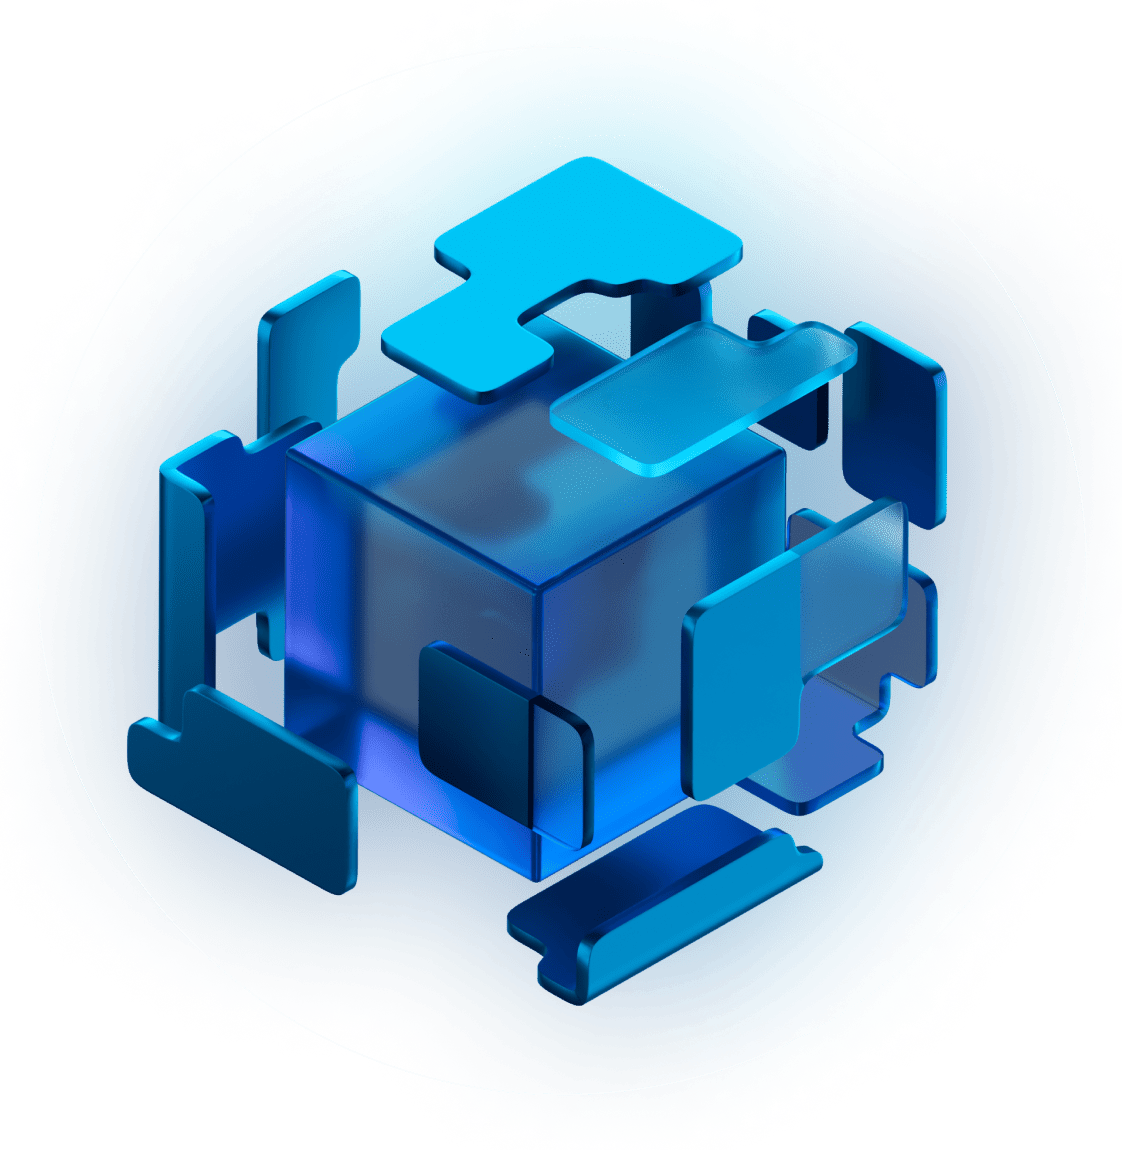
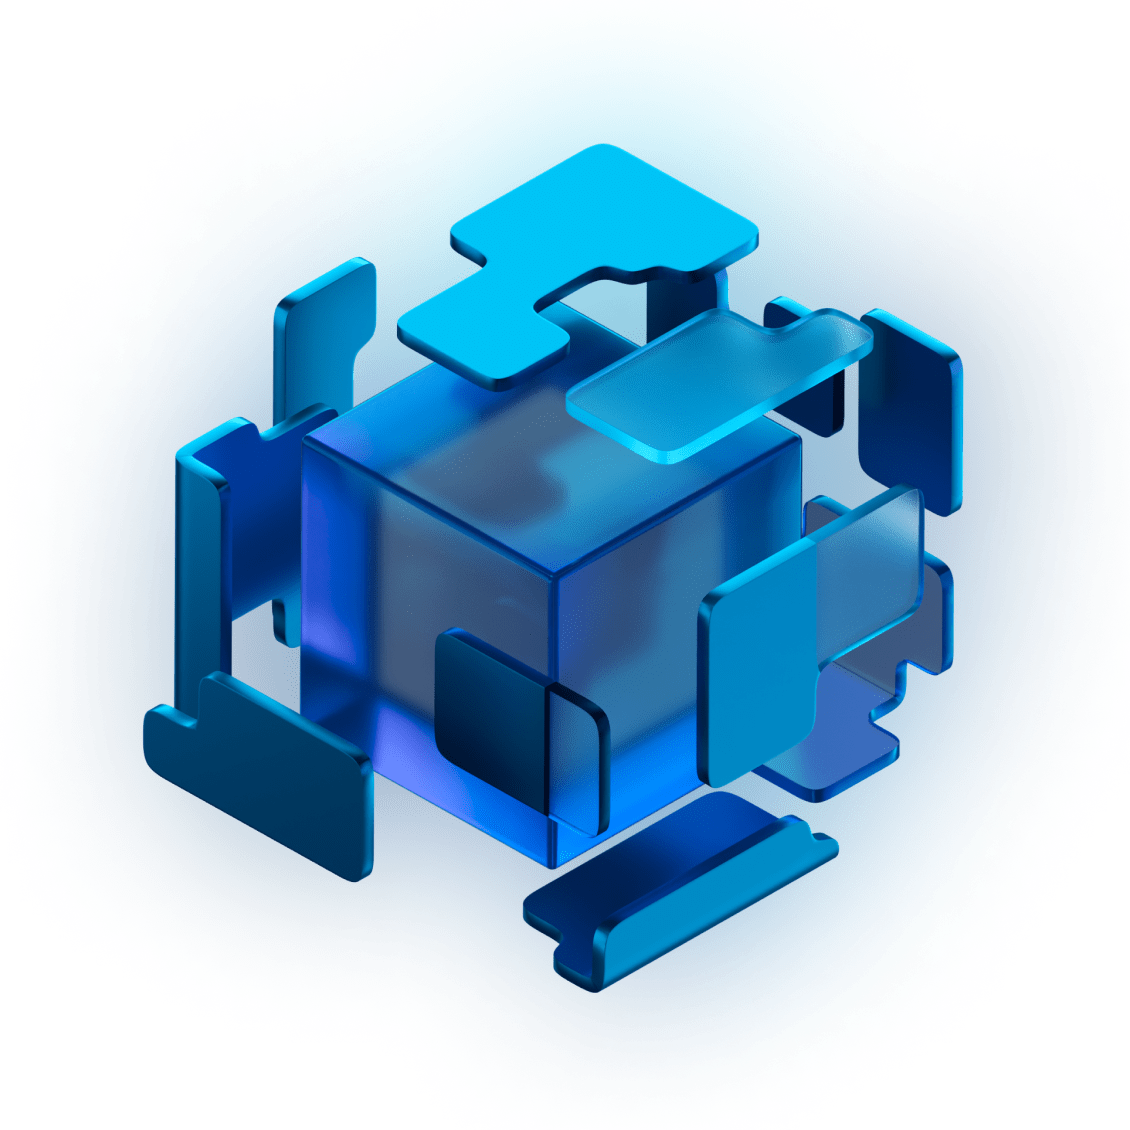
main page animations

diff --git a/app/ui/main/problems.tsx b/app/ui/main/problems.tsx
@@ -20,7 +20,7 @@ export default function Problems() {
       <div
         className={`px-fluid mobile-container-card ${s.inner}`}
       >
-        <div className="block justify-between md:flex" data-aos="fade-up">
+        <div className="block justify-between md:flex">
           <div>
             <Title
               title="Решаем ключевые проблемы"
@@ -53,11 +53,19 @@ export default function Problems() {
           </Link>
         </div>
 
-        <div
+        <div 
           className={`relative ${s.cardsWrapper}`}
         >
+           <Image
+            className={`hidden absolute left-1/2 md:block ${s.bg} ${s.elipse}`}
+            src={"problems_elipce.svg"}
+            alt="sphere"
+            width={1122}
+            height={1150}
+            unoptimized={false}
+          ></Image>
           <Image
-            className={`hidden absolute left-1/2 -translate-x-1/2 md:block ${s.bg}`}
+            className={`hidden absolute left-1/2 md:block ${s.bg} ${s.cube}`}
             src={"/problems-bg.png"}
             alt="sphere"
             width={1122}
@@ -65,7 +73,7 @@ export default function Problems() {
             unoptimized={true}
           ></Image>
           <div className={`block justify-between md:flex ${s.top}`}>
-            <div data-aos="fade-up">
+            <div>
               <ProblemCard
                 textWidth={298}
                 className={styles["problem-left"]}
@@ -76,7 +84,7 @@ export default function Problems() {
                 order="I"
               />
             </div>
-            <div data-aos="fade-up" data-aos-delay="200">
+            <div>
               <ProblemCard
                 textWidth={306}
                 className={styles["problem-right"]}
@@ -89,7 +97,7 @@ export default function Problems() {
           </div>
 
           <div className={`block md:flex ${s.center}`}>
-            <div className="mx-auto" data-aos="fade-up">
+            <div className="mx-auto">
               <ProblemCard
                 textWidth={337}
                 className={styles["problem-center"]}
@@ -101,7 +109,7 @@ export default function Problems() {
             </div>
           </div>
           <div className="hidden justify-between md:flex">
-            <div data-aos="fade-up" data-aos-delay="200">
+            <div>
               <ProblemCard
                 textWidth={335}
                 className={styles["problem-left"]}
@@ -122,7 +130,7 @@ export default function Problems() {
               />
             </div>
           </div>
-          <div
+          <div  data-aos="fade-up"
             className={`relative z-10 ${s.btn}`}
           >
             <Button

diff --git a/app/ui/main/numbers.tsx b/app/ui/main/numbers.tsx
@@ -40,7 +40,7 @@ export default function Numbers() {
             />
           </div>
           <div className={styles.projectsNumberBlock}>
-            <div
+            <div data-aos="fade-up"
               className={styles.projectsNumber}
               style={{
                 marginTop: "calc(15 * (1px + (100vw - 1530px) / 1530))",
@@ -48,7 +48,7 @@ export default function Numbers() {
             >
               {inView ? <CountUp duration={3} end={50}></CountUp> : "50"}+
             </div>
-            <div className={`inline-block text-fluid ${styles.period}`}>
+            <div data-aos="fade-up" className={`inline-block text-fluid ${styles.period}`}>
               Успешных проектов
             </div>
           </div>
@@ -80,7 +80,7 @@ export default function Numbers() {
                 paddingLeft: "calc(48 * (1px + (100vw - 1530px) / 1530))",
               }}
             >
-              <div
+              <div data-aos="fade-up"
                 className="font-semibold"
                 style={{
                   fontSize: "calc(128 * (1px + (100vw - 1530px) / 1530))",
@@ -90,7 +90,7 @@ export default function Numbers() {
               >
                 {inView ? <CountUp duration={3} end={5}></CountUp> : "5"}+
               </div>
-              <div className={`inline-block text-fluid ${styles.period}`}>
+              <div data-aos="fade-up" className={`inline-block text-fluid ${styles.period}`}>
                 Лет опыта
               </div>
             </div>
@@ -100,7 +100,7 @@ export default function Numbers() {
                 marginTop: "calc(30 * (1px + (100vw - 1530px) / 1530))",
               }}
             >
-              <div
+              <div data-aos="fade-up"
                 className="font-semibold"
                 style={{
                   fontSize: "calc(128 * (1px + (100vw - 1530px) / 1530))",
@@ -110,12 +110,12 @@ export default function Numbers() {
               >
                 {inView ? <CountUp duration={3} end={300}></CountUp> : "300"}+
               </div>
-              <div className={`inline-block text-fluid ${styles.period}`}>
+              <div data-aos="fade-up" className={`inline-block text-fluid ${styles.period}`}>
                 Обученных сотрудников
               </div>
             </div>
             <div className={`absolute ${styles.vint}`}>
-              <Image
+              <Image data-aos="fade-up" data-aos-delay="100"
                 src={"/vint.png"}
                 alt="vint"
                 width={511}

diff --git a/app/ui/common/css/ProblemsBlock.module.css b/app/ui/common/css/ProblemsBlock.module.css
@@ -25,6 +25,7 @@
     top: calc(-180 * (1px + (100vw - 1530px) / 1530));
     width: calc(1130 * (1px + (100vw - 1530px) / 1530));
     height: calc(1130 * (1px + (100vw - 1530px) / 1530));
+    left: 10%;
 }
 .btn {
     margin-top: calc(79 * (1px + (100vw - 1530px) / 1530));
@@ -37,6 +38,39 @@
     padding-top: calc(108 * (1px + (100vw - 1530px) / 1530));
     padding-bottom: calc(108 * (1px + (100vw - 1530px) / 1530));
 }
+.elipse {
+    animation: ellipse_anim 3.5s infinite ease-in-out;
+}
+
+@keyframes ellipse_anim {
+    0% {
+        transform: scale(1);
+    }
+    50% {
+        transform: scale(1.03);
+    }
+    100% {
+        transform: scale(1);
+    }
+}
+
+.cube {
+    animation: cube_anim 7s infinite ease-in-out;
+}
+
+@keyframes cube_anim {
+    0% {
+        transform: translateY(0.6%);
+    }
+    50% {
+        transform: translateY(-0.6%);
+    }
+    100% {
+        transform: translateY(0.6%);
+    }
+}
+
+
 @media (max-width: 767px) {
     .btn {
         margin-top: calc(36 * (1px + (100vw - 430px) / 430));
@@ -62,6 +96,7 @@
         top: 29%;
         width: 100%;
         height: auto;
+        left: 50%;
     }
     .cardsWrapper {
         margin-top: calc(200 * (1px + (100vw - 430px) / 430));

diff --git a/app/ui/common/title.tsx b/app/ui/common/title.tsx
@@ -27,14 +27,15 @@ export default function Title({
         alt="logo"
         width={0}
         height={0}
-        className={styles.icon}
+        className={`${styles.icon} ${iconLeft ? "" : styles.iconRight}`}
       />
     );
   }
 
   return (
     <div className={styles.wrapper}>
-      <div
+      <div 
+        data-aos={`${!isMain ? "fade-up" : ""}`}
         className={`subtitle text-fluid font-semibold ${styles.subtitle}`}
       >
         {iconLeft && image}
@@ -51,9 +52,9 @@ export default function Title({
           {title} <span className="inline opacity-50 md:block">{title2}</span>
         </h1>
       ) : (
-        <h3 className={`title leading-title font-bold text-title ${styles.title} ${isService ? styles.serviceTitle : ""}`}>
+        <h2 data-aos="fade-up" data-aos-delay="100" className={`title leading-title font-bold text-title ${styles.title} ${isService ? styles.serviceTitle : ""}`}>
           {title} <span className="inline opacity-50 md:block">{title2}</span>
-        </h3>
+        </h2>
       )}
     </div>
   );

diff --git a/app/ui/common/mainText.tsx b/app/ui/common/mainText.tsx
@@ -11,7 +11,7 @@ export default function MainText({
   const spans = [];
   for (let i = 0; i < order; i++) {
     spans.push(
-      <span
+      <span data-aos="fade-up"
         key={i}
         className={`bg-accent rounded-full inline-block relative ${styles.egs}`}
         style={{top: "calc(-2 * (1px + (100vw - 1530px) / 1530))"}}
@@ -22,13 +22,14 @@ export default function MainText({
     <div
       className={`advantages-text ${styles["advantages-text"]}`}
     >
-      <div className="text-accent mb-fluid">
+      <div className="text-accent mb-fluid"  data-aos="fade-up">
         <span className="text-fluid">/ </span>
         {spans}
         <span className="text-fluid"> /</span>
       </div>
       <div
         className={`opacity-70 text-fluid ${styles.text}`}
+        data-aos="fade-up" data-aos-delay="100" 
       >
         {text}
       </div>

diff --git a/app/ui/main/faq.tsx b/app/ui/main/faq.tsx
@@ -9,7 +9,6 @@ export default function Faq({ faqData }: {faqData: FAQItem[]}) {
   return (
     <div className="px-fluid mobile-container">
       <div
-        data-aos="fade-up"
         className="flex justify-between items-center"
         style={{
           marginBottom: "calc(87 * (1px + (100vw - 1530px) / 1530))",
@@ -46,7 +45,7 @@ export default function Faq({ faqData }: {faqData: FAQItem[]}) {
           faqData={faqData}
         ></FaqItems>
       </div>
-      <div className={s.qWrapper} data-aos="fade-up">
+      <div className={s.qWrapper}>
         <div className={`text-accent text-fluid font-semibold ${s.qTitle}`}>
           Возникли дополнительные вопросы?
         </div>

diff --git a/app/ui/main/consultation.tsx b/app/ui/main/consultation.tsx
@@ -53,6 +53,7 @@ export default function Consultation({bg = "/3D-Black.png", mobileBg="/3D-Black-
             src={bg}
             width={885}
             height={379}
+            unoptimized={true}
             alt="3dpng"
             style={{
               width: "calc(885 * (1px + (100vw - 1530px) / 1530))",
@@ -145,6 +146,7 @@ export default function Consultation({bg = "/3D-Black.png", mobileBg="/3D-Black-
             width={395}
             height={522}
             alt="3dpng"
+            unoptimized={true}
             style={{
               width: "100%",
               height: "auto",

diff --git a/app/ui/common/faq-items.tsx b/app/ui/common/faq-items.tsx
@@ -20,7 +20,7 @@ export default function FaqItems({ faqData }: { faqData: FAQItem[] }) {
     <div>
       <ul className="basis-1/2">
         {faqData.map((item, index) => (
-          <li key={index} className={styles.answer}>
+          <li key={index} className={styles.answer} data-aos="fade-up">
             <button
               className={`relative flex gap-2 items-center w-full text-left text-[#e0e0e0] ${styles.btn}`}
               aria-expanded={openIndex === index}

diff --git a/app/AOSProvider.tsx b/app/AOSProvider.tsx
@@ -11,6 +11,7 @@ interface AOSProviderProps {
 const AOSProvider: React.FC<AOSProviderProps> = ({ children }) => {
    useEffect(() => {
     AOS.init({
+        disable: () => window.innerWidth < 768,
         offset: 10, // Начинает анимацию за 20px до появления
         duration: 700 // Длительность анимации в миллисекундах
     });

diff --git a/app/ui/common/footer-form.tsx b/app/ui/common/footer-form.tsx
@@ -42,7 +42,7 @@ export default function FooterForm({ text = "Отправить" }: { text?: str
   };
 
   return (
-    <form onSubmit={handleSubmit} className={formStyles.form} data-aos="fade-up">
+    <form onSubmit={handleSubmit} className={formStyles.form}>
       <div
         className={`${formStyles["input-container"]} ${
           name.length == 0 ? "" : formStyles.active

diff --git a/app/ui/main/footer.tsx b/app/ui/main/footer.tsx
@@ -16,7 +16,7 @@ export default function Footer() {
         </div>
         <FooterForm text="Оставить заявку"></FooterForm>
       </div>      
-      <div className="block md:flex justify-between" data-aos="fade-up">
+      <div className="block md:flex justify-between">
         <div>
           <div className={styles.subtitle}>
             <Title

diff --git a/app/ui/common/css/Footer.module.css b/app/ui/common/css/Footer.module.css
@@ -79,6 +79,11 @@
     font-size: calc(14 * (1px + (100vw - 1530px) / 1530));
     line-height: calc(19 * (1px + (100vw - 1530px) / 1530));
 }
+
+.subtitle > div > *[data-aos="fade-up"]{
+    opacity: 1;
+    transform: translateZ(0);
+}
 @media (max-width: 767px) {
     .footer {
         padding-bottom: calc(28 * (1px + (100vw - 430px) / 430));
